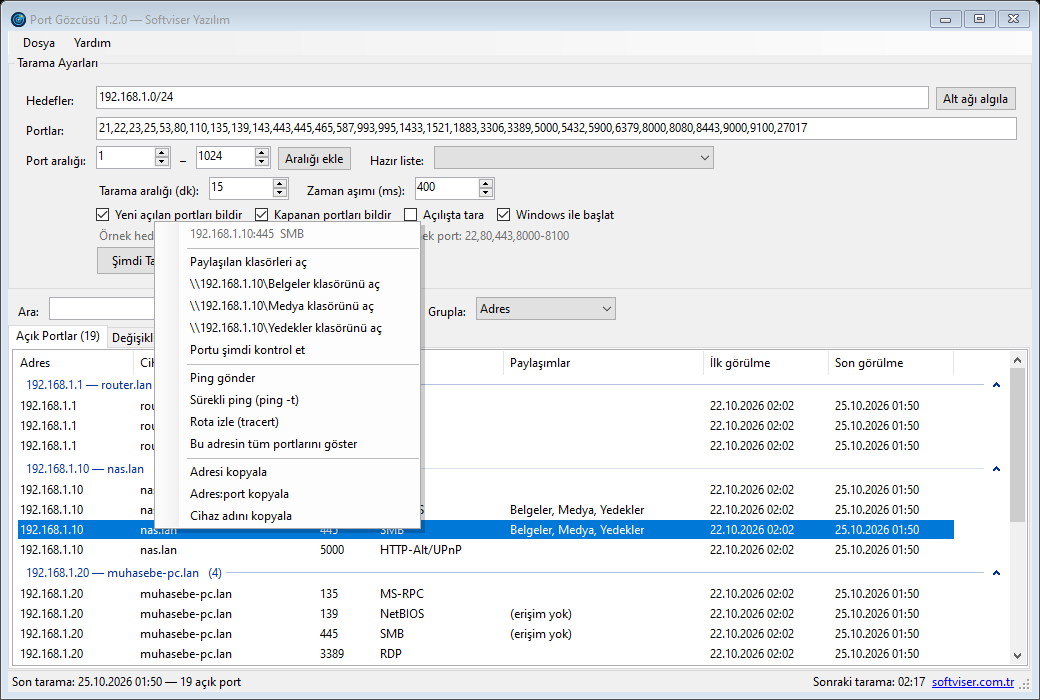
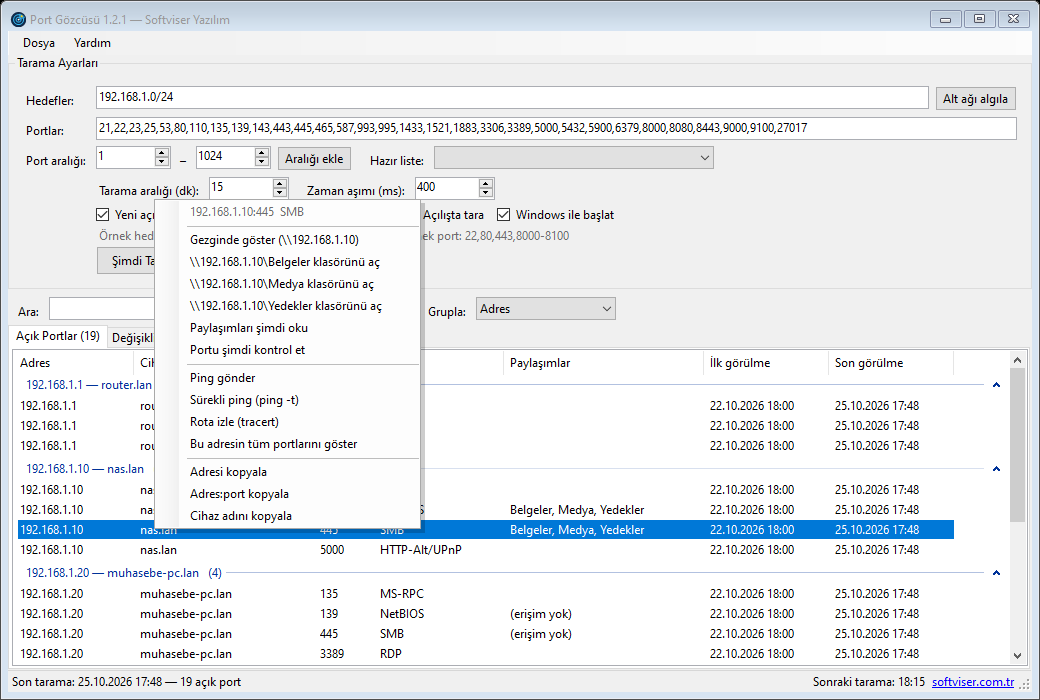
Sürüm 1.2.1: Gezginde göster ve paylaşımları şimdi oku
- SMB portu açık cihazların sağ tık menüsüne Gezginde göster ve Paylaşımları şimdi oku eklendi
- Paylaşımlar sütunu okunmamış/boş durumları açıkça belirtiyor
- Paylaşım işlemleri değişiklikler listesinden de kullanılabiliyor

diff --git a/src/PortGozcusu/MainForm.cs b/src/PortGozcusu/MainForm.cs
@@ -501,7 +501,7 @@ internal sealed class MainForm : Form
 
     // Görünüm
 
-    private sealed record Target(string Host, int Port, string? HostName, IReadOnlyList<string>? Shares = null);
+    private sealed record Target(string Host, int Port, string? HostName);
 
     private void RenderAll()
     {
@@ -512,7 +512,7 @@ internal sealed class MainForm : Form
             {
                 e.Host, e.HostName ?? "", e.Port.ToString(), Services.NameOf(e.Port), SharesText(e),
                 e.FirstSeen.ToString("g"), e.LastSeen.ToString("g"),
-            }) { Tag = new Target(e.Host, e.Port, e.HostName, e.Shares) }));
+            }) { Tag = new Target(e.Host, e.Port, e.HostName) }));
 
         Fill(_lvChanges, _changes.Select(c => new ListViewItem(new[]
         {
@@ -569,8 +569,35 @@ internal sealed class MainForm : Form
         lv.EndUpdate();
     }
 
-    private static string SharesText(PortEntry e) =>
-        e.Shares is { Count: > 0 } s ? string.Join(", ", s) : e.ShareError is { } err ? $"({err})" : "";
+    private static string SharesText(PortEntry e)
+    {
+        if (e.Port is not (139 or 445)) return "";
+        if (e.Shares is { Count: > 0 } s) return string.Join(", ", s);
+        if (e.ShareError is { } err) return $"({err})";
+        return e.Shares == null ? "(henüz okunmadı)" : "(paylaşım yok)";
+    }
+
+    private PortEntry? SmbEntry(string host) =>
+        _snapshot.Open.GetValueOrDefault($"{host}:445") ?? _snapshot.Open.GetValueOrDefault($"{host}:139");
+
+    private async Task RefreshSharesAsync(string host)
+    {
+        SetStatus($"{host} paylaşımları okunuyor...");
+        var r = (await Shares.ListAsync(new[] { host }, CancellationToken.None))[host];
+        foreach (var port in new[] { 139, 445 })
+        {
+            if (_snapshot.Open.TryGetValue($"{host}:{port}", out var e))
+            {
+                e.Shares = r.Names;
+                e.ShareError = r.Error;
+            }
+        }
+        Storage.Save(AppPaths.SnapshotFile, _snapshot);
+        RenderAll();
+        SetStatus(r.Error != null
+            ? $"{host}: paylaşımlar okunamadı ({r.Error})"
+            : $"{host}: {r.Names.Count} paylaşım bulundu");
+    }
 
     private static (string Header, string Sort) GroupKey(Target t, string mode)
     {
@@ -603,10 +630,16 @@ internal sealed class MainForm : Form
             menu.Items.Add(new ToolStripSeparator());
             foreach (var a in PortActions.ForPort(t.Host, t.Port))
                 menu.Items.Add(a.Title, null, (_, _) => Launch(a));
-            foreach (var share in t.Shares ?? Array.Empty<string>())
+            if (SmbEntry(t.Host) is { } smb)
             {
-                var path = $@"\\{t.Host}\{share}";
-                menu.Items.Add($"{path} klasörünü aç", null, (_, _) => Launch(new PortAction("Paylaşım", "explorer.exe", path)));
+                var root = $@"\\{t.Host}";
+                menu.Items.Add($"Gezginde göster ({root})", null, (_, _) => Launch(new PortAction("Gezgin", "explorer.exe", root)));
+                foreach (var share in smb.Shares ?? new List<string>())
+                {
+                    var path = $@"{root}\{share}";
+                    menu.Items.Add($"{path} klasörünü aç", null, (_, _) => Launch(new PortAction("Paylaşım", "explorer.exe", path)));
+                }
+                menu.Items.Add("Paylaşımları şimdi oku", null, async (_, _) => await RefreshSharesAsync(t.Host));
             }
             menu.Items.Add("Portu şimdi kontrol et", null, async (_, _) => await RecheckAsync(t));
             menu.Items.Add(new ToolStripSeparator());

diff --git a/src/PortGozcusu/PortActions.cs b/src/PortGozcusu/PortActions.cs
@@ -30,8 +30,7 @@ internal static class PortActions
                 list.Add(new("FTP adresini aç", $"ftp://{host}:{port}/"));
                 break;
             case 139 or 445:
-                list.Add(new("Paylaşılan klasörleri aç", "explorer.exe", $@"\\{host}"));
-                break;
+                return list; // Gezgin ve paylaşım işlemleri adres menüsünde (MainForm)
             case 5900 or 5901:
                 list.Add(new("VNC ile bağlan", $"vnc://{host}:{port}"));
                 break;

diff --git a/tests/PortGozcusu.Tests/PortActionsTests.cs b/tests/PortGozcusu.Tests/PortActionsTests.cs
@@ -32,10 +32,11 @@ public class PortActionsTests
     }
 
     [Fact]
-    public void Smb_opens_shares_without_browser()
+    public void Smb_ports_have_no_browser_action()
     {
-        var a = Assert.Single(PortActions.ForPort(Host, 445));
-        Assert.Equal(@"\\192.168.1.20", a.Arguments);
+        // Gezgin ve paylaşım işlemleri adres menüsünden gelir.
+        Assert.Empty(PortActions.ForPort(Host, 445));
+        Assert.Empty(PortActions.ForPort(Host, 139));
     }
 
     [Fact]

diff --git a/README.md b/README.md
@@ -63,6 +63,8 @@ Ping, sürekli ping ve tracert çıktısı uygulama içindeki bir pencerede canl
 
 Tarama sırasında 139 veya 445 portu açık olan cihazlardaki paylaşımlar okunur ve **Paylaşımlar** sütununda gösterilir. `C$`, `ADMIN$`, `IPC$` gibi yönetim paylaşımları listelenmez. Cihaz Windows kullanıcınızın erişimine izin vermiyorsa sütunda "(erişim yok)" yazar.
 
+Paylaşımlar taramanın sonunda okunduğu için geniş port aralıklarında (ör. `1-1024`) sütun bir süre "(henüz okunmadı)" olarak kalabilir. Beklemek istemezseniz satıra sağ tıklayıp **Paylaşımları şimdi oku** seçeneğini kullanın. **Gezginde göster** cihazın tüm paylaşımlarını Windows Gezgini'nde açar.
+
 Pencereyi kapattığınızda uygulama tepsiye iner. Tamamen kapatmak için tepsi simgesine sağ tıklayıp **Çıkış**'ı seçin.
 
 Uygulama `--minimized` parametresiyle başlatılırsa pencere açılmadan doğrudan tepside çalışır (otomatik başlatma bunu kullanır).
@@ -165,6 +167,12 @@ build.ps1           Derleme ve paketleme
 ```
 
 ## Sürüm geçmişi
+
+### 1.2.1
+
+- Sağ tık menüsüne SMB portu açık cihazlar için **Gezginde göster** ve **Paylaşımları şimdi oku** eklendi.
+- Paylaşımlar sütunu henüz okunmamış ya da boş olan cihazlarda "(henüz okunmadı)" / "(paylaşım yok)" yazıyor; önceden boş kalıyordu.
+- Paylaşım işlemleri değişiklikler listesindeki satırlardan da kullanılabiliyor.
 
 ### 1.2.0
 
